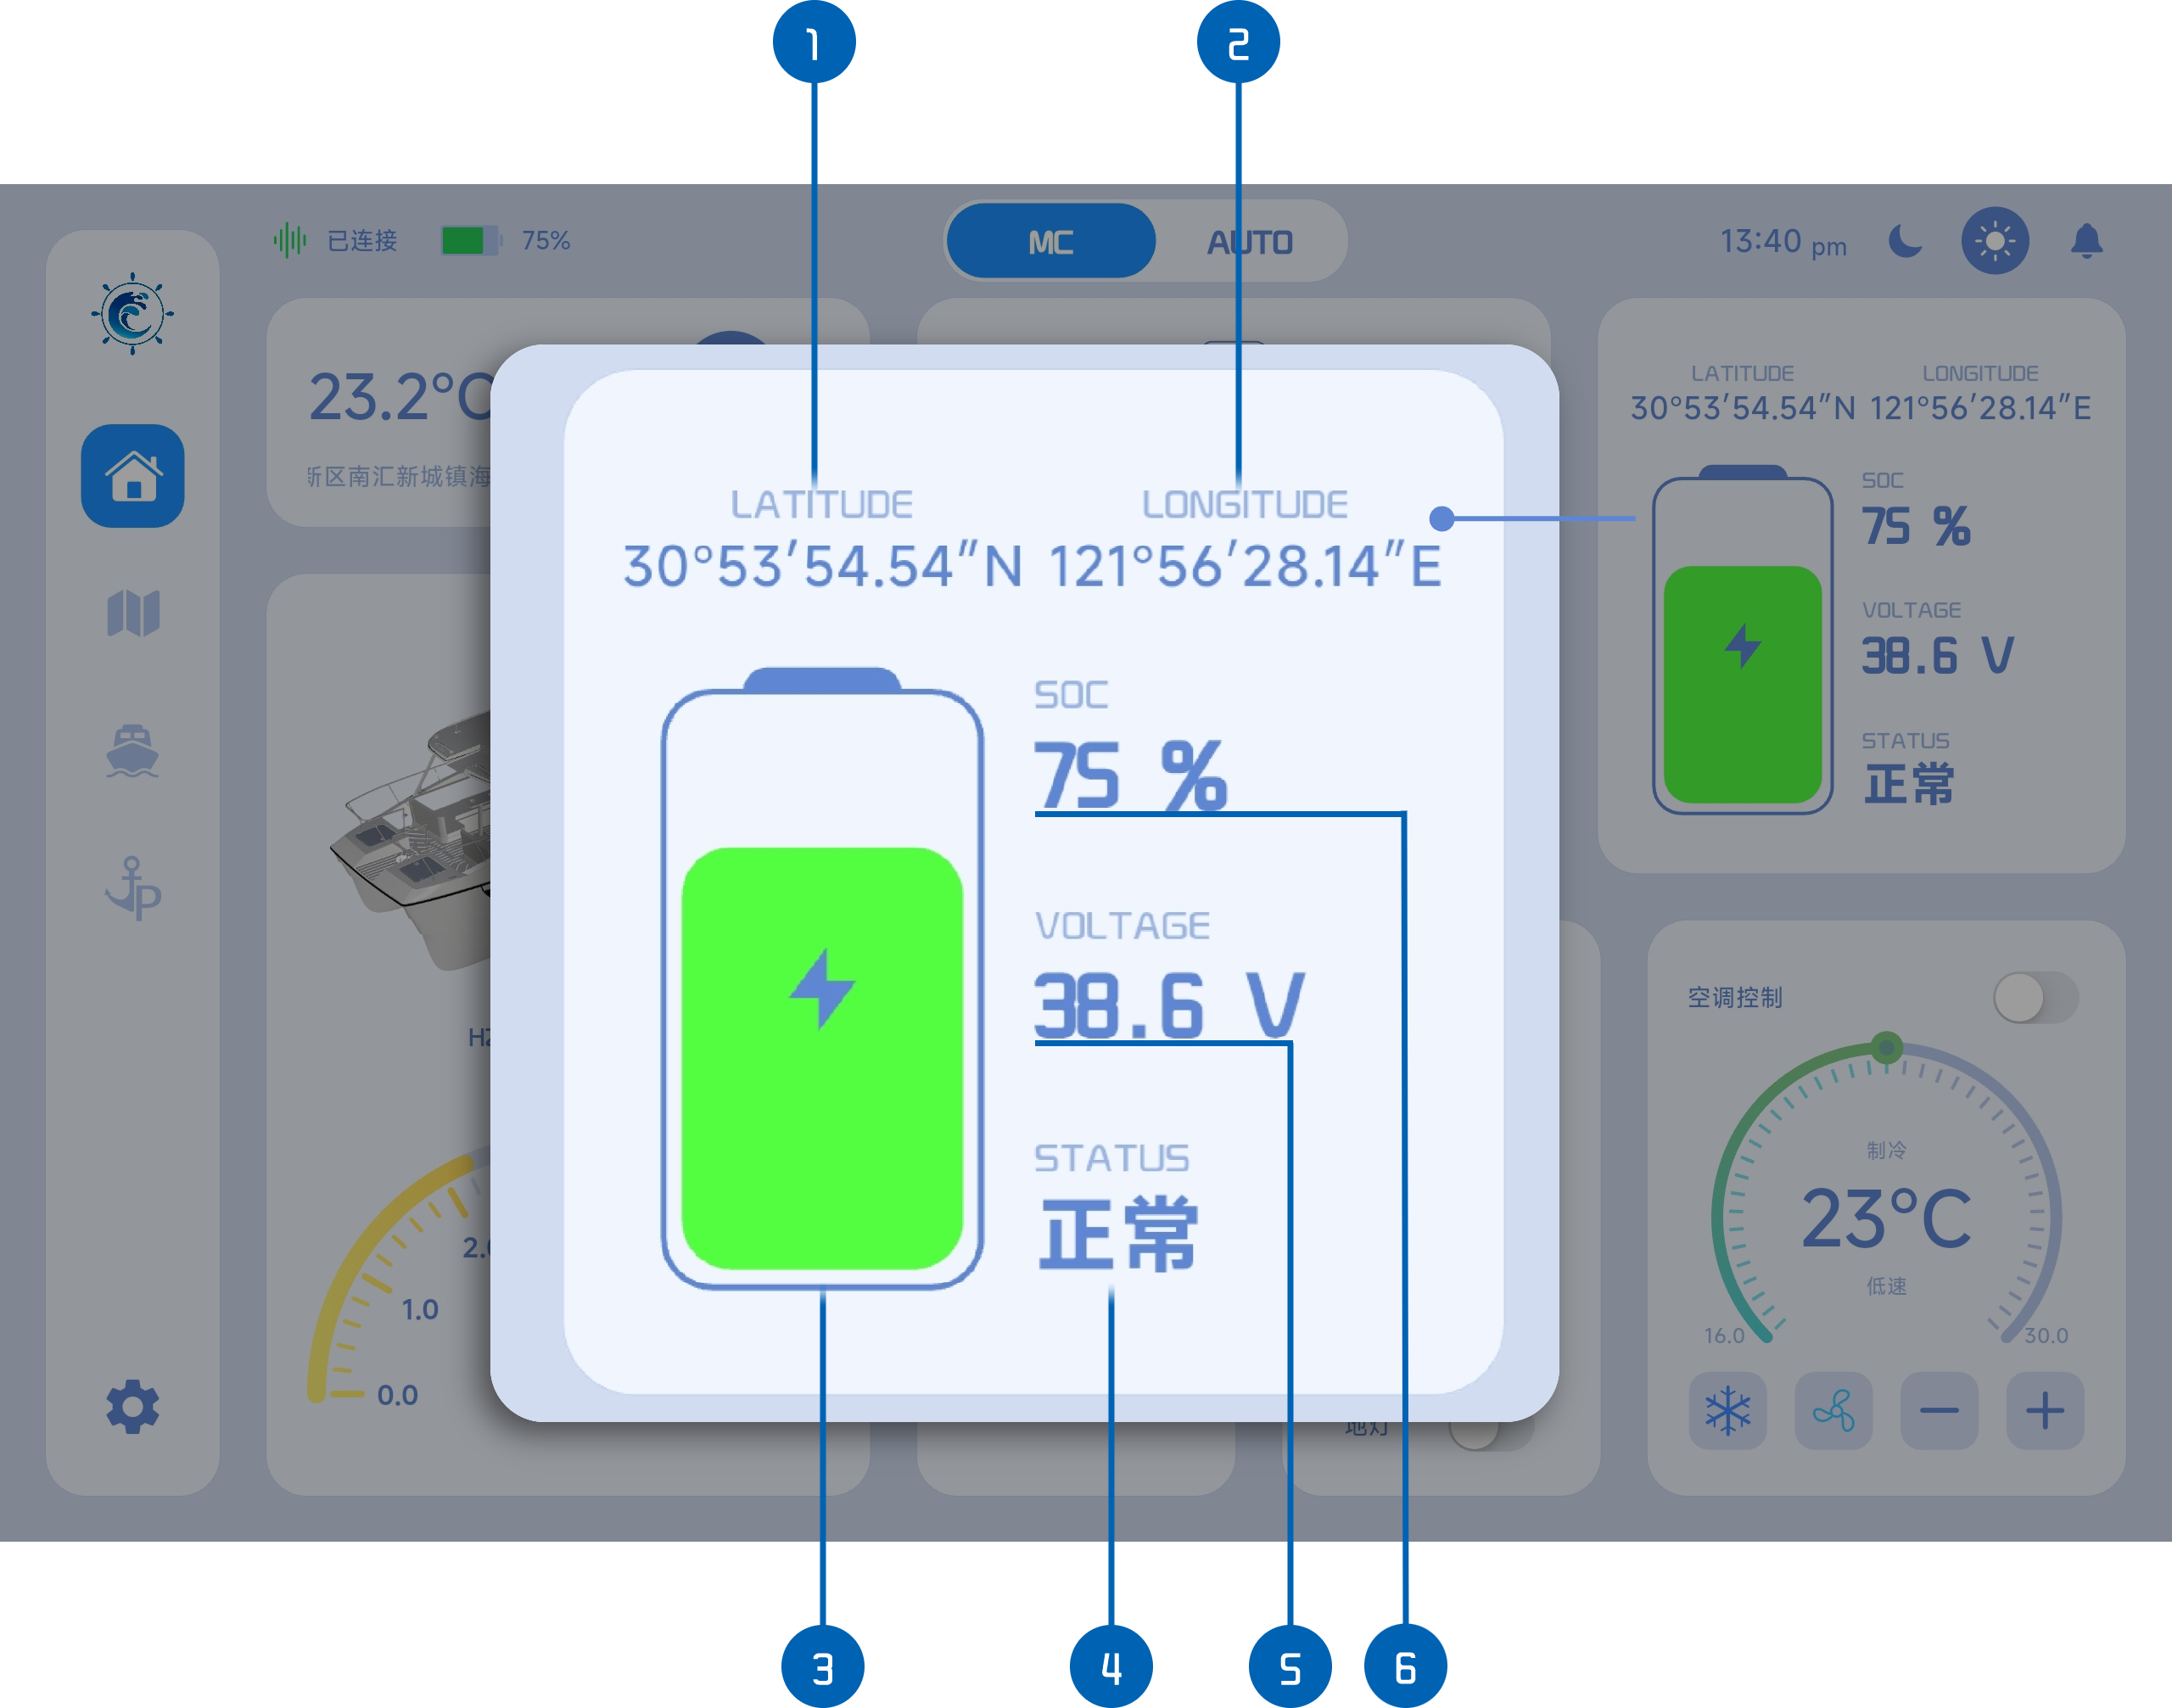
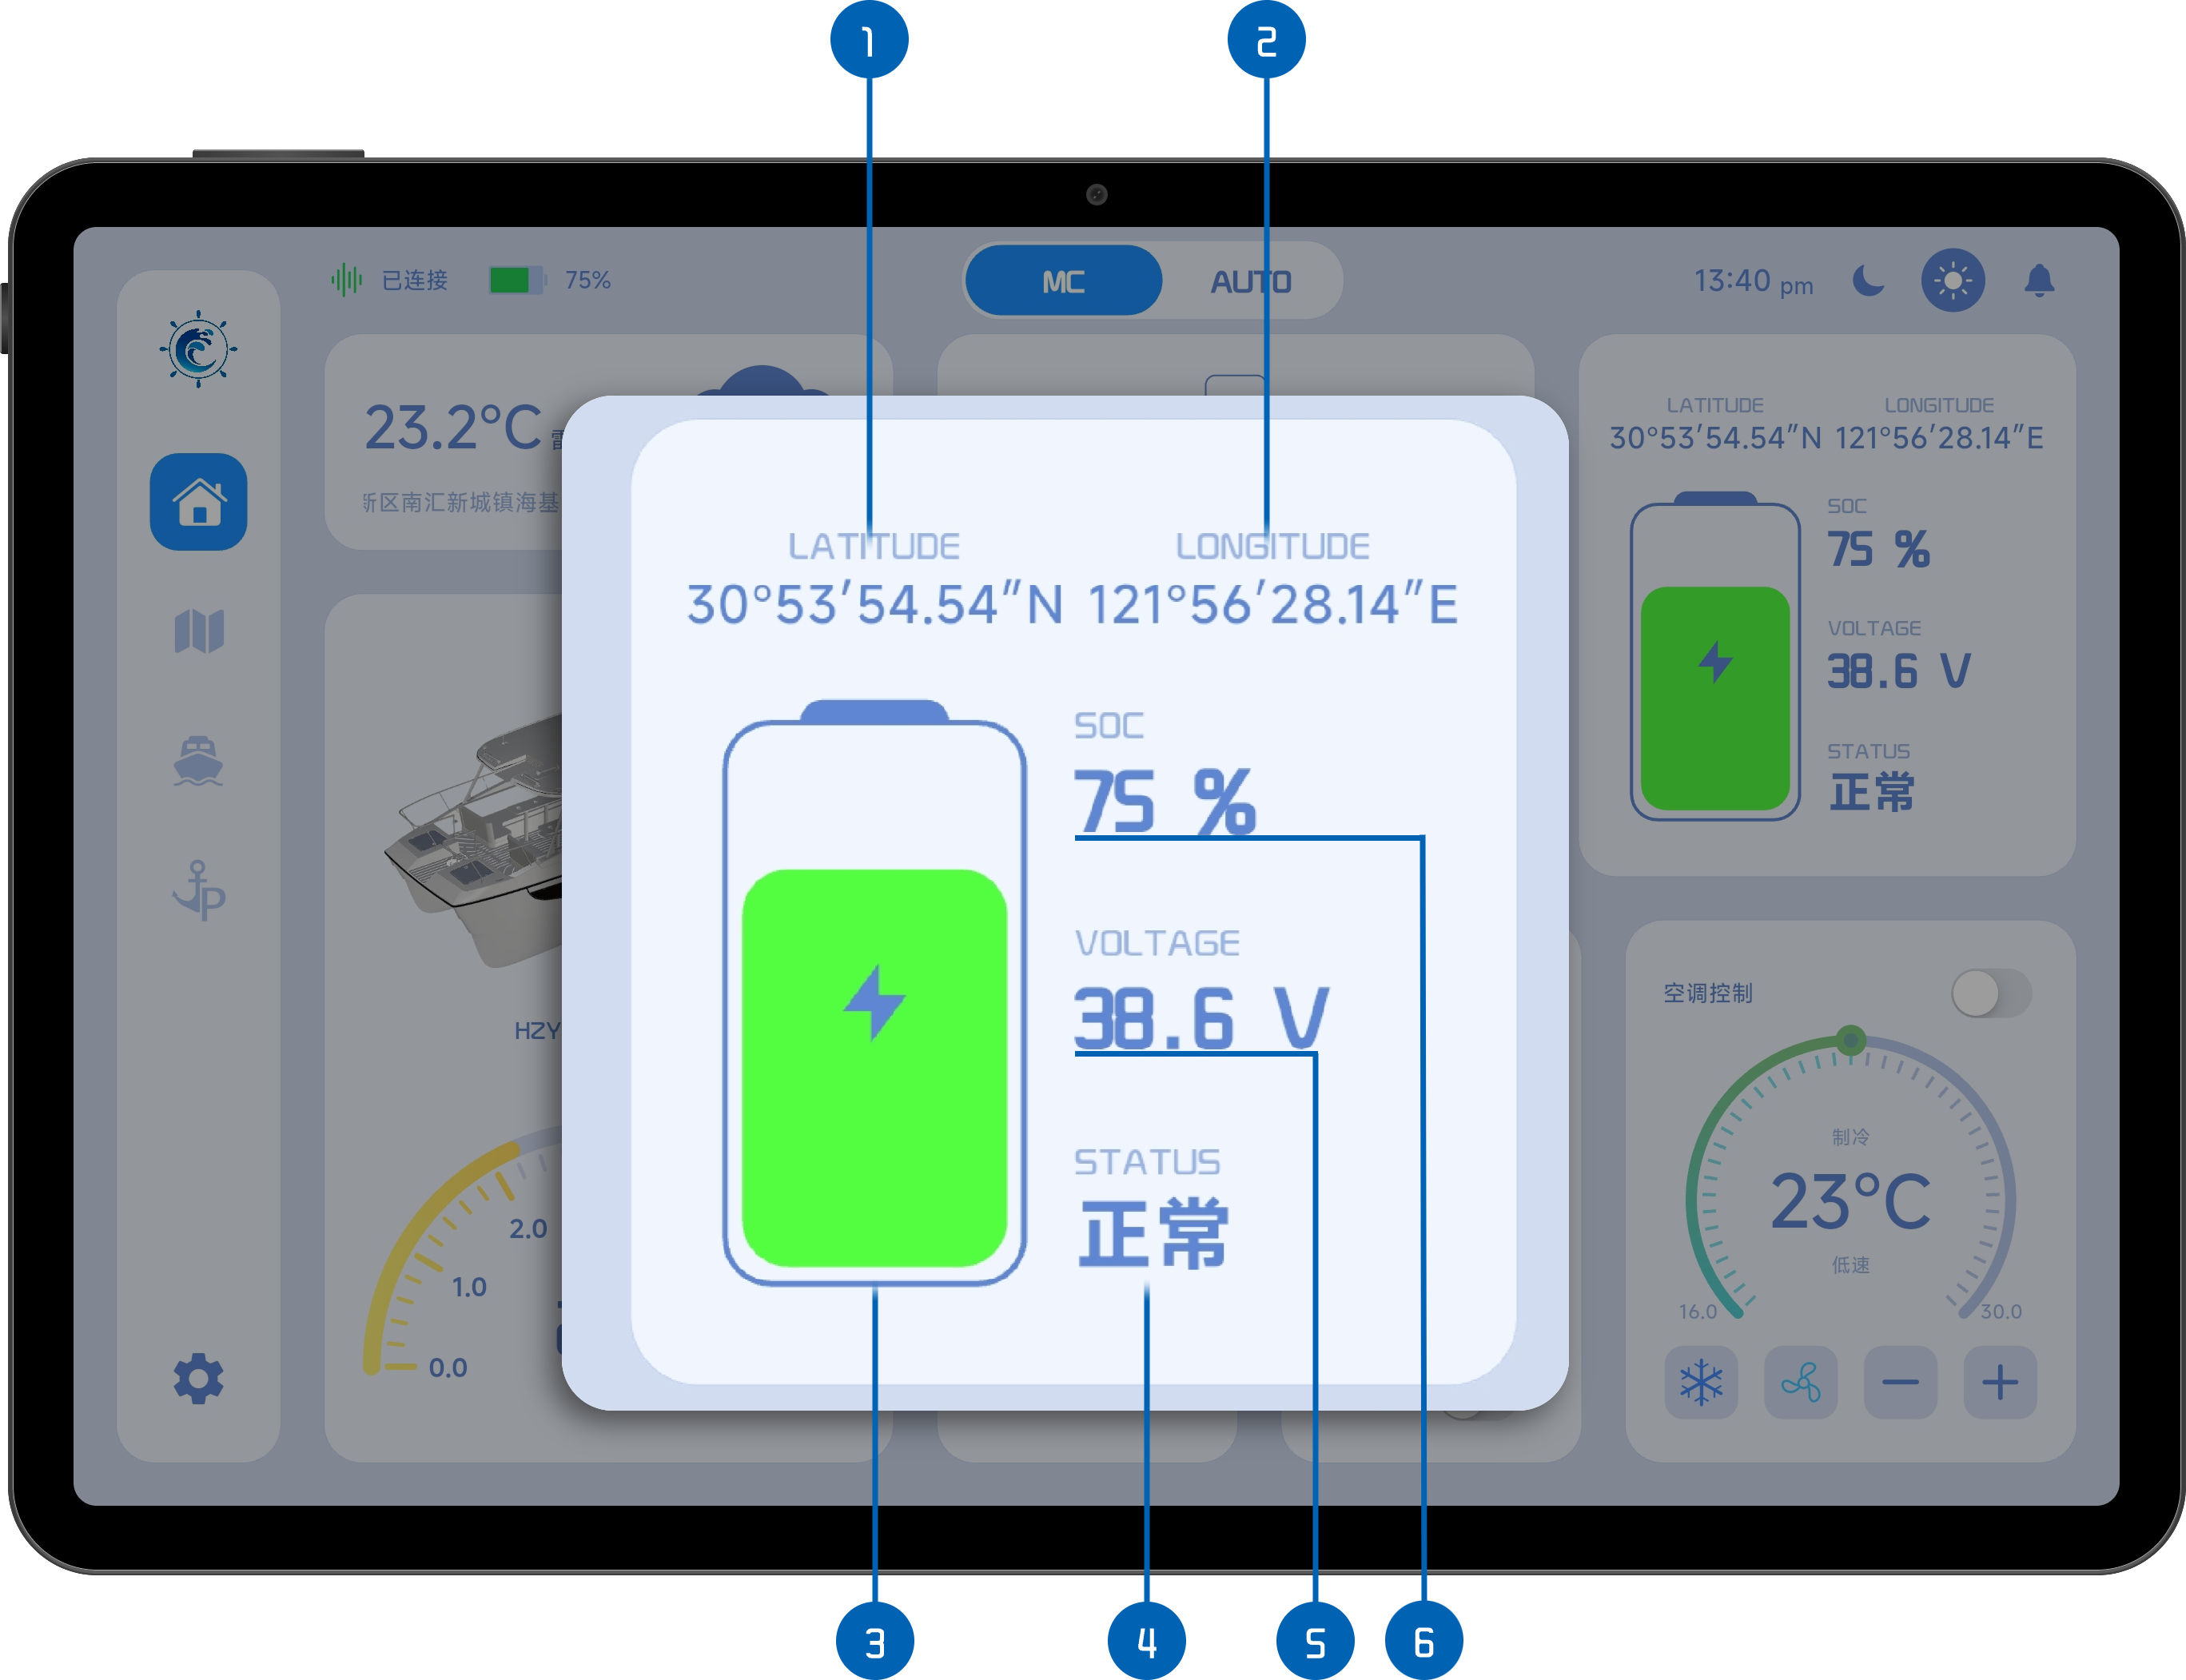
替换了航行状态显示部分的图片

diff --git a/docs/securityStatements.md b/docs/securityStatements.md
@@ -1,7 +1,4 @@
-<div style="display:flex;align-items:center;">
-    <h1>安全声明</h1>
-    <img src="./AppIcons/warning.svg" width="40">
-</div>
+# 安全声明 <img src="./AppIcons/warning.svg" width="32" style="display:inline;vertical-align:middle;" />
 
 
 ## 请在使用前仔细阅读